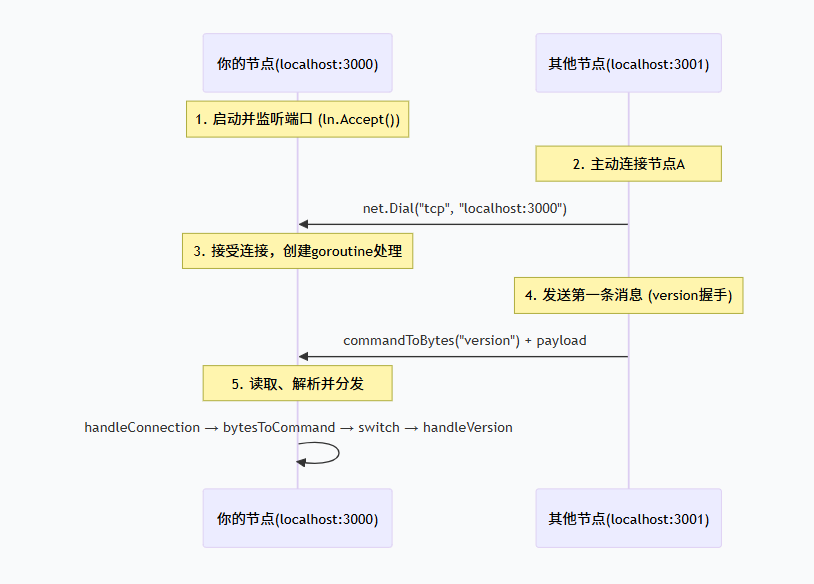
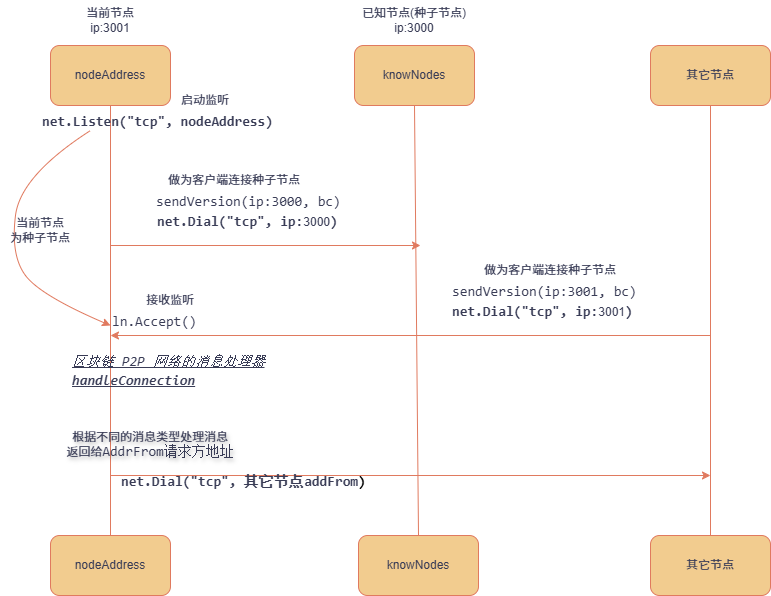
版本处理器和服务端通信逻辑

diff --git a/network.go b/network.go
@@ -85,46 +85,59 @@ func bytesToCommand(bytes []byte) string {
 }
 
 /*
-	1、设置节点地址
-	2、初始化区块链数据库
-	3、创建监听器
+	1、当前节点地址
+	2、创建监听器
+	3、判定当前节点是否为种子节点，若不是种子节点，创建当前节点数据库，并在已知列表中连接种子节点
 	4、Accept启动监听，等待其它节点连接
 	5、其它节点来了，连接已知节点同步区块链状态
 	5、成为网络的种子节点，等待其他节点加入
 */
 // 开启服务器（节点连接服务器）
 func StartServer(nodeID, minerAddress string) {
-	nodeAddress = fmt.Sprintf("localhost:%s", nodeID) // 设置节点地址localshot:3000
+	nodeAddress = fmt.Sprintf("localhost:%s", nodeID) // 服务器节点localshot:3000
 	miningAddress = minerAddress                      // 奖励矿工地址
-
-	bc := GetBlockchain(nodeID) // 初始化区块链数据库
-
-	ln, err := net.Listen(protocol, nodeAddress) // 监听传入连接localshot:3000
+	ln, err := net.Listen(protocol, nodeAddress)      // 服务端监听传入连接localshot:3000
 	if err != nil {
 		log.Panic(err)
 	}
-	defer ln.Close() // 执行完毕记得关闭监听
-
+	defer ln.Close()                  // 执行完毕记得关闭监听
+	bc := GetBlockchain(nodeID)       // 创建当前节点的数据库，得到当前区块hash和db
 	if nodeAddress != knownNodes[0] { // 检查自己是不是那个种子节点
-		sendVersion(knownNodes[0], bc) // 连接已知节点同步区块链状态
+		sendVersion(knownNodes[0], bc) // 自己不是种子节点，连接已知种子节点同步区块链状态
 	}
 
-	// 成为网络的种子节点，等待其他节点加入
+	// 服务端等待其它节点来连接
 	for {
-		conn, err := ln.Accept() // 等待其它节点来连接
+		conn, err := ln.Accept()
 		if err != nil {
 			log.Panic(err)
 		}
-		go handleConnection(conn, bc)
+		go handleConnection(conn, bc) // 监测到其它节点连接，处理连接同步数据到db
 	}
 }
 
-// 新区块链连接已知节点（已知地址，新区块链）同步区块链状态
-func sendVersion(addr string, bc *BlockChain) {
-	bestHeight := bc.GetBestHeight()                                    // 新区块链的高度
-	payload := gobEncode(verzion{nodeVersion, bestHeight, nodeAddress}) // 新编码（新版本，新区块，新节点地址 ）
-	request := append(commandToBytes("version"), payload...)            // 带版本的新编码
-	sendData(addr, request)                                             // 加入到连接（已知地址，带版本的新编码）
+// 发送数据，连接种子节点（已知地址，带版本的新编码）
+func sendData(addr string, data []byte) {
+	conn, err := net.Dial(protocol, addr) // 客户端连接已知列表中的种子节点
+	if err != nil {
+		fmt.Printf("%s is not available\n", addr)
+		var updatedNodes []string
+		// 若报错说明addr是个失败节点，需要删除
+		for _, node := range knownNodes {
+			if node != addr {
+				updatedNodes = append(updatedNodes, node) // 排除掉失败节点的新数组
+			}
+		}
+		knownNodes = updatedNodes // 排除掉失败节点的新数组，赋值给已知节点列表
+		return
+	}
+	defer conn.Close()
+	// data 是要发送的字节切片（比如序列化的结构体、文件内容等）
+	// conn 是网络连接（实现了 io.Writer 接口）
+	_, err = io.Copy(conn, bytes.NewReader(data)) // 它将内存中的数据通过 TCP 连接发送出去，让服务端接收到
+	if err != nil {
+		log.Panic(err)
+	}
 }
 
 // 区块链 P2P 网络的消息处理器
@@ -151,36 +164,10 @@ func handleConnection(conn net.Conn, bc *BlockChain) {
 	case "tx":
 		handleTx(request, bc)
 	case "version":
-		handleVersion(request, bc)
+		handleVersion(request, bc) // 版本处理，用于比较区块高度最长合法链
 	default:
 		fmt.Println("Unknown command!")
 	}
 
 	conn.Close()
-}
-
-// 发送数据，加入到连接（已知地址，带版本的新编码）
-func sendData(addr string, data []byte) {
-	conn, err := net.Dial(protocol, addr) // 创建已知地址的网络连接
-	if err != nil {
-		fmt.Printf("%s is not available\n", addr)
-		var updatedNodes []string
-		// 若报错无法连接，检查已知节点
-		for _, node := range knownNodes {
-			if node != addr {
-				// 很可能其它人提前挖到矿了，我们要更新节点
-				updatedNodes = append(updatedNodes, node)
-			}
-		}
-		// 很可能其它人提前挖到矿了，我们要更新节点，新节点赋值给老节点
-		knownNodes = updatedNodes
-
-		return
-	}
-	defer conn.Close()
-	// 加入连接，让监听器接收到
-	_, err = io.Copy(conn, bytes.NewReader(data))
-	if err != nil {
-		log.Panic(err)
-	}
 }

diff --git a/cli.go b/cli.go
@@ -35,7 +35,7 @@ func (cli *CLI) Run() {
 		os.Exit(1)
 	}
 
-	// 设置命令,flagSet是命令的最小单元，代表独立的命令行参数定义
+	// 注册命令，命令架构
 	createWalletCmd := flag.NewFlagSet("createwallet", flag.ExitOnError)
 	listAddressesCmd := flag.NewFlagSet("listaddresses", flag.ExitOnError)
 	printChainCmd := flag.NewFlagSet("printchain", flag.ExitOnError)
@@ -44,7 +44,15 @@ func (cli *CLI) Run() {
 	createBlockchainCmd := flag.NewFlagSet("createblockchain", flag.ExitOnError)
 	sendCmd := flag.NewFlagSet("send", flag.ExitOnError)
 	startNodeCmd := flag.NewFlagSet("startnode", flag.ExitOnError)
-	// 解析您输入的命令，并加入到flagSet中，等待被执行，当调用*访问时才真正执行
+	// 初始化命令，组装参数和默认赋值
+	getBalanceAddress := getBalanceCmd.String("address", "", "这个地址是您钱包的地址")
+	createBlockchainAddress := createBlockchainCmd.String("address", "", "这个地址是您的钱包地址")
+	sendFrom := sendCmd.String("from", "", "转账的发起人也是账户拥有者")
+	sendTo := sendCmd.String("to", "", "转账的接收者")
+	sendAmount := sendCmd.Int("amount", 0, "转账的金额")
+	sendMine := sendCmd.Bool("mine", false, "设置mine节点将立即挖矿，未设置mine交易将广播到网络")
+	startNodeMiner := startNodeCmd.String("miner", "", "启动一个节点，具有挖矿的功能")
+	// 解析命令，os.Args[2:]替换参数默认值
 	switch os.Args[1] {
 	case "createwallet":
 		err := createWalletCmd.Parse(os.Args[2:])
@@ -91,17 +99,9 @@ func (cli *CLI) Run() {
 		os.Exit(1)
 	}
 
-	// 设置命令参数，参数值，解释
-	getBalanceAddress := getBalanceCmd.String("address", "", "这个地址是您钱包的地址")
-	createBlockchainAddress := createBlockchainCmd.String("address", "", "这个地址是您的钱包地址")
-	sendFrom := sendCmd.String("from", "", "转账的发起人也是账户拥有者")
-	sendTo := sendCmd.String("to", "", "转账的接收者")
-	sendAmount := sendCmd.Int("amount", 0, "转账的金额")
-	sendMine := sendCmd.Bool("mine", false, "设置mine节点将立即挖矿，未设置mine交易将广播到网络")
-	startNodeMiner := startNodeCmd.String("miner", "", "启动一个节点，具有挖矿的功能")
-	/** start --- 解析您输入的命令，判断是否被解析到flagSet中，若解析了返回true，可以用*解址执行**/
+	/** start --- 执行命令（Parsed判断命令是否解析，若已解析便可执行，用解析后的加*执行*/
 	if getBalanceCmd.Parsed() {
-		if *getBalanceAddress == "" {
+		if *getBalanceAddress == "" { //
 			getBalanceCmd.Usage() // 在NewFlagSet时候已经初始化了defaultUsage，打印错误信息
 		}
 		cli.getbalance(*getBalanceAddress, nodeID) // 执行命令，用*解址自动执行，并传递到执行函数
@@ -128,9 +128,9 @@ func (cli *CLI) Run() {
 		}
 		cli.startNode(nodeID, *startNodeMiner)
 	}
-	/** end --- 解析您输入的命令，判断是否被解析到flagSet中，若解析了返回true，可以用*解址执行**/
+	/** end --- 执行命令结束**/
 
-	// 以下直接调用，flagSet中没有预解析数据，直接调用命令即可
+	// 执行（无需判定解析，直接执行）
 	if createWalletCmd.Parsed() {
 		cli.createWallet(nodeID)
 	}

diff --git a/network_version.go b/network_version.go
@@ -1,5 +1,55 @@
 package main
 
-func handleVersion(request []byte, bc *BlockChain) {
+import (
+	"bytes"
+	"encoding/gob"
+	"log"
+)
 
+// 版本处理器-区块链节点间版本同步握手协议的核心实现
+func handleVersion(request []byte, bc *BlockChain) {
+	var buff bytes.Buffer // 缓冲区
+	var payload verzion   // 版本消息结构体
+
+	buff.Write(request[commandLength:]) // 请求消息写入缓冲区
+	dec := gob.NewDecoder(&buff)        // gob 解码器（Go的二进制序列化格式）
+	err := dec.Decode(&payload)         // 将缓冲区数据解码到 payload 结构体中
+	if err != nil {
+		log.Panic(err)
+	}
+
+	myBestHeight := bc.GetBestHeight()        // 获取本地区块链的最新高度
+	foreignerBestHeight := payload.BestHeight // 获取对方区块链的高度
+
+	if myBestHeight < foreignerBestHeight { // 比较高度对方最长合法链
+		sendGetBlocks(payload.AddrFrom) // 向对方请求区块数据
+	} else if myBestHeight > foreignerBestHeight { // 我方最长合法链
+		sendVersion(payload.AddrFrom, bc) // 向对方发送我的版本（触发对方请求）
+	}
+
+	if !nodeIsKnown(payload.AddrFrom) { // 检查发送者是否已在已知节点列表中
+		knownNodes = append(knownNodes, payload.AddrFrom) // 不在则添加
+	}
+}
+
+// 组装版本信息，并在已知列表中连接种子节点
+func sendVersion(addr string, bc *BlockChain) {
+	bestHeight := bc.GetBestHeight()                                    // 新区块链的高度
+	payload := gobEncode(verzion{nodeVersion, bestHeight, nodeAddress}) // 新编码（新版本，新区块，新节点地址 ）
+	request := append(commandToBytes("version"), payload...)            // 带版本的新编码
+	sendData(addr, request)                                             // 连接种子节点
+}
+
+func sendGetBlocks(address string) {
+	payload := gobEncode(getBlocks{nodeAddress})               // 编码请求数据
+	request := append(commandToBytes("getBlocks"), payload...) // 拼接命令+数据
+	sendData(address, request)                                 // 发送请求
+}
+func nodeIsKnown(addr string) bool {
+	for _, node := range knownNodes { // 遍历已知节点列表
+		if node == addr { // 找到匹配
+			return true
+		}
+	}
+	return false // 未找到匹配
 }
